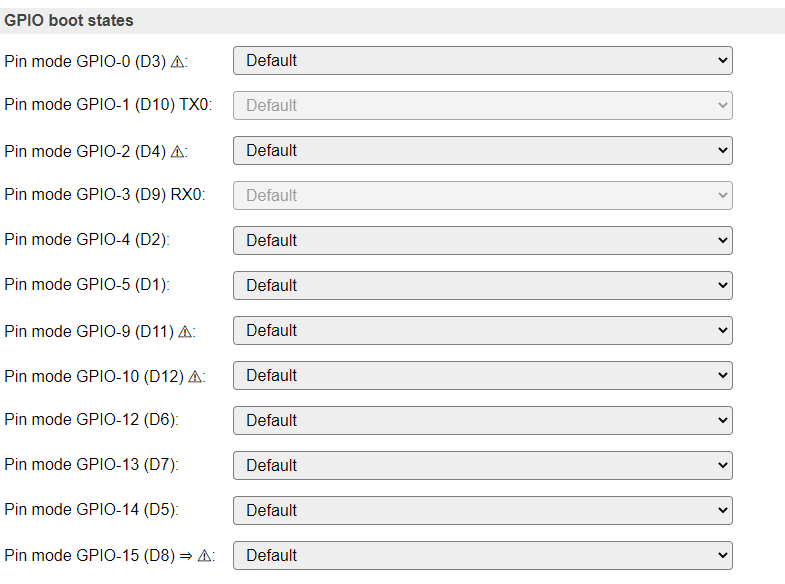
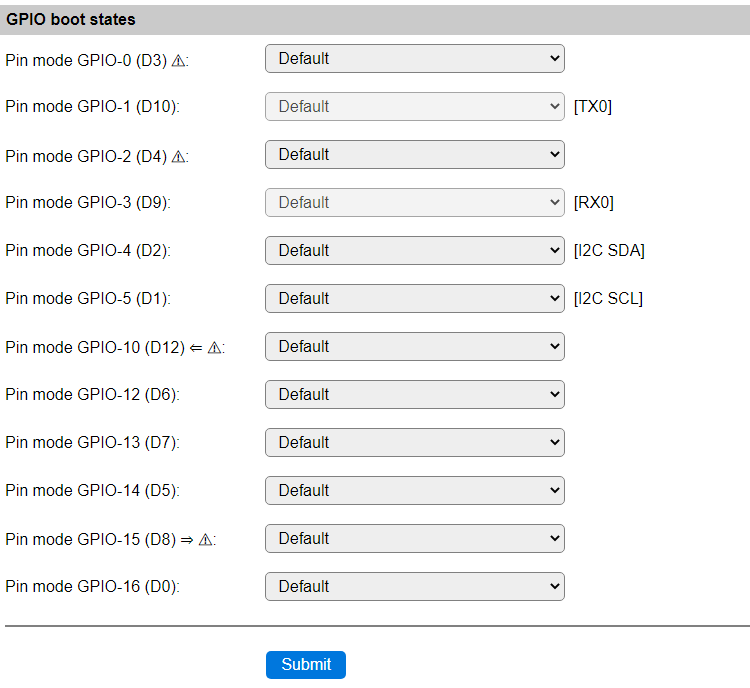
[GPIO] Update hardware-page documentation

diff --git a/docs/source/Hardware/Hardware.rst b/docs/source/Hardware/Hardware.rst
@@ -303,8 +303,9 @@ For some GPIO pins, the boot state (initial configuration after startup) can be 
 
 Some differences exist between ESP8266 and ESP32:
 
-* ESP8266 can't initialize GPIO's 6, 7 and 8 (technical limitation of ESP8266 chip) and 16 (always has pull-down setting)
-* ESP32 can't initialize GPIO's from 16 and up (settings storage limitation, could be initialized from Rules in `System#Boot` event)
+* ESP8266 can't initialize GPIO's 6, 7, 8, 9 and 11 (used for flash-chip by ESP8266 chip).
+* ESP8285 can't initialize GPIO's 6, 7, 8 and 11 (used by flash of ESP8285 chip).
+* ESP32 / ESP32-S2 can't initialize all GPIO's, only GPIO pins that are actually available for use are shown.
 
 *ESP8266 GPIO boot states:*
 
@@ -313,3 +314,25 @@ Some differences exist between ESP8266 and ESP32:
 *ESP32 GPIO boot states:*
 
 .. image:: Hardware_GPIObootstatesESP32.png
+
+(Besides the serial pins, also I2C and SPI are configured)
+
+If the board supports PSRAM, it has these differences:
+
+.. image:: Hardware_GPIObootstatesESP32-PSRAM.png
+
+Overview of the GPIO pin mapping of ESP32 (link to Espressif documentation): `ESP32 DevKitC <https://docs.espressif.com/projects/esp-idf/en/latest/esp32/_images/esp32-devkitC-v4-pinout.png>`_
+
+*ESP32-S2 GPIO boot states:*
+
+.. image:: Hardware_GPIObootstatesESP32-S2.png
+
+(Only the serial port logging is enabled on this unit, no SPI or I2C)
+
+If the board supports PSRAM, it hides GPIO-26
+
+.. image:: Hardware_GPIObootstatesESP32-S2-PSRAM.png
+
+(GPIO-26 is missing from the range, as it can not be used if PSRAM is present)
+
+Overview of the GPIO pin mapping of ESP32-S2 (link to Espressif documentation): `ESP32-S2 Saola1 <https://docs.espressif.com/projects/esp-idf/en/latest/esp32s2/_images/esp32-s2_saola1-pinout.jpg>`_
